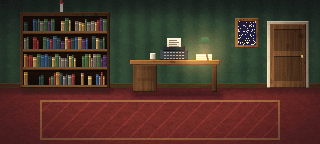
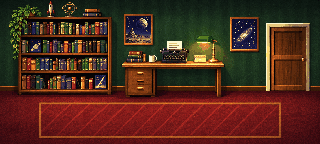
Arbeitszimmer: Hintergrund des Nutzers, neue Klickflächen und Sprüche
Das Diktiergerät liegt jetzt auf dem Notizblock, weil dort, wo es stand,
die neue Lampe steht. Pflanze, Modellrakete, Planetenmodell, Bild, Tasse
und Lampe antworten jetzt.

diff --git a/src/game/rooms/arbeitszimmer.ts b/src/game/rooms/arbeitszimmer.ts
@@ -14,25 +14,73 @@ export const arbeitszimmer: RoomDef = {
         scale: SCALE,
         hotspots: [
           {
+            id: 'pflanze',
+            name: 'hotspot.pflanze',
+            area: rect(9, 5, 18, 53),
+            walkTo: [20, 94],
+            face: 'hinten',
+            comments: { schauan: 'say.prolog.arbeit_pflanze' },
+          },
+          {
             id: 'regal',
             name: 'hotspot.buecherregal',
-            area: rect(20, 12, 90, 76),
+            area: rect(18, 17, 94, 76),
             walkTo: [65, 94],
             face: 'hinten',
             comments: { schauan: 'say.prolog.arbeit_regal', nimm: 'say.prolog.arbeit_regal_nimm' },
           },
           {
+            id: 'modellrakete',
+            name: 'hotspot.modellrakete',
+            area: rect(47, 1, 9, 16),
+            walkTo: [52, 94],
+            face: 'hinten',
+            comments: { schauan: 'say.prolog.arbeit_rakete' },
+          },
+          {
+            id: 'planetenmodell',
+            name: 'hotspot.planetenmodell',
+            area: rect(61, 2, 17, 15),
+            walkTo: [70, 94],
+            face: 'hinten',
+            comments: { schauan: 'say.prolog.arbeit_modell' },
+          },
+          {
+            id: 'raumbild',
+            name: 'hotspot.raumbild',
+            area: rect(124, 14, 29, 31),
+            walkTo: [139, 94],
+            face: 'hinten',
+            comments: { schauan: 'say.prolog.arbeit_raumbild' },
+          },
+          {
             id: 'schreibtisch',
             name: 'hotspot.schreibtisch',
-            area: rect(130, 58, 90, 34),
+            area: rect(122, 50, 102, 46),
             walkTo: [175, 96],
             face: 'hinten',
             comments: { schauan: 'say.prolog.arbeit_schreibtisch', oeffne: 'say.prolog.arbeit_schublade' },
           },
           {
+            id: 'tasse',
+            name: 'hotspot.tasse',
+            area: rect(148, 54, 11, 8),
+            walkTo: [153, 96],
+            face: 'hinten',
+            comments: { schauan: 'say.prolog.arbeit_tasse' },
+          },
+          {
+            id: 'lampe',
+            name: 'hotspot.lampe',
+            area: rect(195, 36, 24, 26),
+            walkTo: [207, 96],
+            face: 'hinten',
+            comments: { schauan: 'say.prolog.arbeit_lampe' },
+          },
+          {
             id: 'schreibmaschine',
             name: 'hotspot.schreibmaschine',
-            area: rect(160, 38, 28, 22),
+            area: rect(160, 40, 28, 22),
             walkTo: [175, 96],
             face: 'hinten',
             comments: {
@@ -43,11 +91,11 @@ export const arbeitszimmer: RoomDef = {
           {
             id: 'diktiergeraet',
             name: 'item.diktiergeraet.name',
-            area: rect(212, 48, 16, 12),
-            walkTo: [215, 96],
+            area: rect(192, 50, 16, 13),
+            walkTo: [200, 96],
             face: 'hinten',
             visible: (s) => !s.flags.diktiergeraet_genommen,
-            sprite: { key: 'backgrounds/sprites/diktiergeraet.png', x: 213, y: 50 },
+            sprite: { key: 'backgrounds/sprites/diktiergeraet.png', x: 193, y: 52 },
             comments: { schauan: 'say.k1.diktier_auf_tisch' },
             verbs: {
               nimm: pickup((g) => {
@@ -59,15 +107,15 @@ export const arbeitszimmer: RoomDef = {
           {
             id: 'bild',
             name: 'hotspot.sternenbild',
-            area: rect(235, 18, 24, 30),
-            walkTo: [247, 94],
+            area: rect(230, 17, 29, 34),
+            walkTo: [244, 94],
             face: 'hinten',
             comments: { schauan: 'say.prolog.arbeit_bild' },
           },
           {
             id: 'tuer',
             name: 'hotspot.tuer_kueche',
-            area: rect(268, 22, 40, 66),
+            area: rect(266, 22, 44, 69),
             walkTo: [287, 94],
             face: 'hinten',
             exit: { room: 'kueche', at: [77, 98], face: 'vorne' },

diff --git a/tests/m8-texte.spec.ts b/tests/m8-texte.spec.ts
@@ -125,6 +125,10 @@ test.describe('Meilenstein 8: Text-Runde', () => {
     await go(page, 'tuer', 'kueche');
     await act(page, 'oeffne', 'haengeschrank');
     expect(await lastSpeech(page)).toBe(de.reaktion.kueche_1986.haengeschrank.oeffne);
+    await go(page, 'arbeitszimmer', 'arbeitszimmer');
+    await act(page, 'druecke', 'lampe');
+    expect(await lastSpeech(page)).toBe(de.reaktion.arbeitszimmer_1986.lampe.druecke);
+    await go(page, 'tuer', 'kueche');
     await act(page, 'ziehe', 'lorraine');
     const said = await page.evaluate(() => window.__hv.speech().at(-1));
     expect(said?.actor).toBe('lorraine');

diff --git a/tools/paint/build.ts b/tools/paint/build.ts
@@ -107,7 +107,7 @@ const UI: Record<string, () => Picture> = {
 };
 
 /** Vom Nutzer gezeichnete Bilder: Sie werden nie übermalt, auch nicht mit --force oder Namensfilter. */
-const EIGENE_BILDER = new Set(['titel', 'martys_zimmer_1986', 'kueche_1986']);
+const EIGENE_BILDER = new Set(['titel', 'martys_zimmer_1986', 'kueche_1986', 'arbeitszimmer_1986']);
 
 const args = process.argv.slice(2);
 const force = args.includes('--force');
